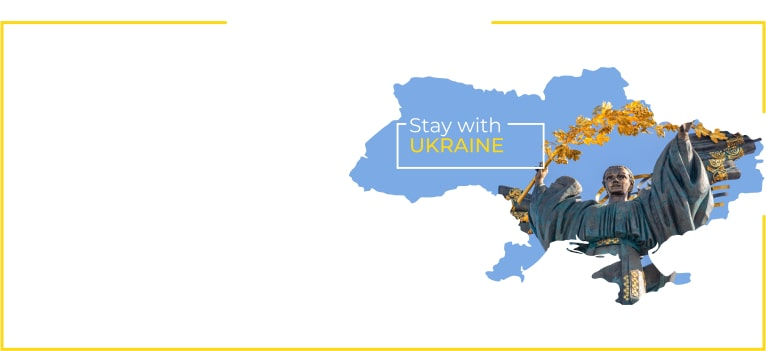
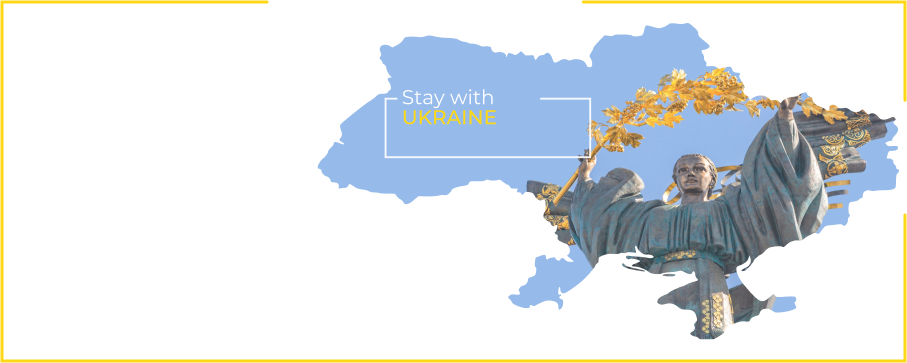
fixed bugs in the block we provide

diff --git a/src/css/style.css b/src/css/style.css
@@ -494,14 +494,15 @@ li {
 #provide .images {
     background-image: url(../images/provide/providemobile.png);
     margin: 0 auto;
-    width: 326.727px;
-    height: 186.2px;
-    flex-shrink: 0;
+    width: 93%;
+    height: 52vw;
     background-size: cover;
     background-repeat: no-repeat;
 }
 
 #provide .text {
+    position: relative;
+    bottom: 11px;
     color: var(--color-blue-1);
     text-align: center;
     font-family: Open Sans;
@@ -509,10 +510,11 @@ li {
     font-style: italic;
     font-weight: 600;
     line-height: normal;
+    margin: 0px;
 }
 
 #provide .text1 {
-    width: 279px;
+    width: 86%;
     text-align: left;
     color: var(--color-blue-1);
     font-family: Montserrat;
@@ -520,6 +522,16 @@ li {
     font-style: normal;
     font-weight: 500;
     line-height: normal;
+    margin: 0 auto;
+    padding: 0px 44px 0px 0px ;
+}
+
+#provide .text1
+li {
+    position: sticky;
+    left: 42px;
+    margin: 0px 13px 19px 0px;
+    list-style: disc;
 }
 
 /*we provide end*/
@@ -2874,13 +2886,16 @@ textarea {
     #provide .images {
         background-image: url(../images/provide/provide.desktop.png);
         margin: 0 auto;
-        width: 762.721px;
-        height: 349.395px;
+        width: 904px;
+        height: 360px;
         background-size: cover;
         background-repeat: no-repeat;
     }
 
     #provide .text {
+        position: relative;
+        bottom: 15px;
+        right: 23px;
         color: var(--color-blue-1);
         text-align: center;
         font-family: Montserrat;
@@ -2891,14 +2906,13 @@ textarea {
     }
 
     #provide .text1 {
-        line-height: 1.8;
+        line-height: 175%;
         padding: 15px 0;
-        margin-left: 50px;
-        width: 316.299px;
-        height: 218.44px;
+        margin-left: 35px;
+        width: 42%;
         color: var(--color-blue-1);
         font-family: Montserrat;
-        font-size: 13px;
+        font-size: 16px;
         font-style: normal;
         font-weight: 400;
     }

diff --git a/index.html b/index.html
@@ -228,7 +228,7 @@
                         <b>персональний </b>супровід <b>кожних </b>до працевлаштування
                     </li>
                     <li>
-                        <b>повернення</b>до повноцінного життя в свої міста, села в
+                        <b>повернення</b> до повноцінного життя в свої міста, села в
                         Україні
                     </li>
                 </ul>
